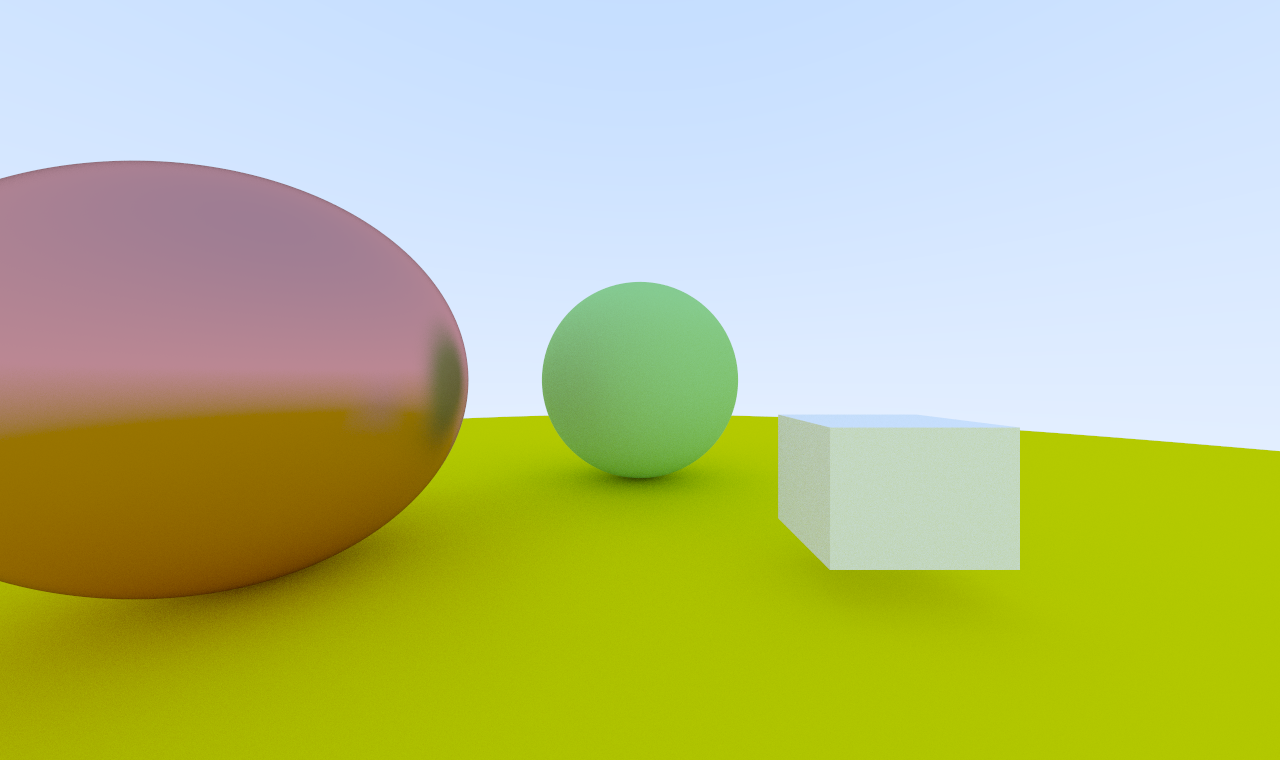
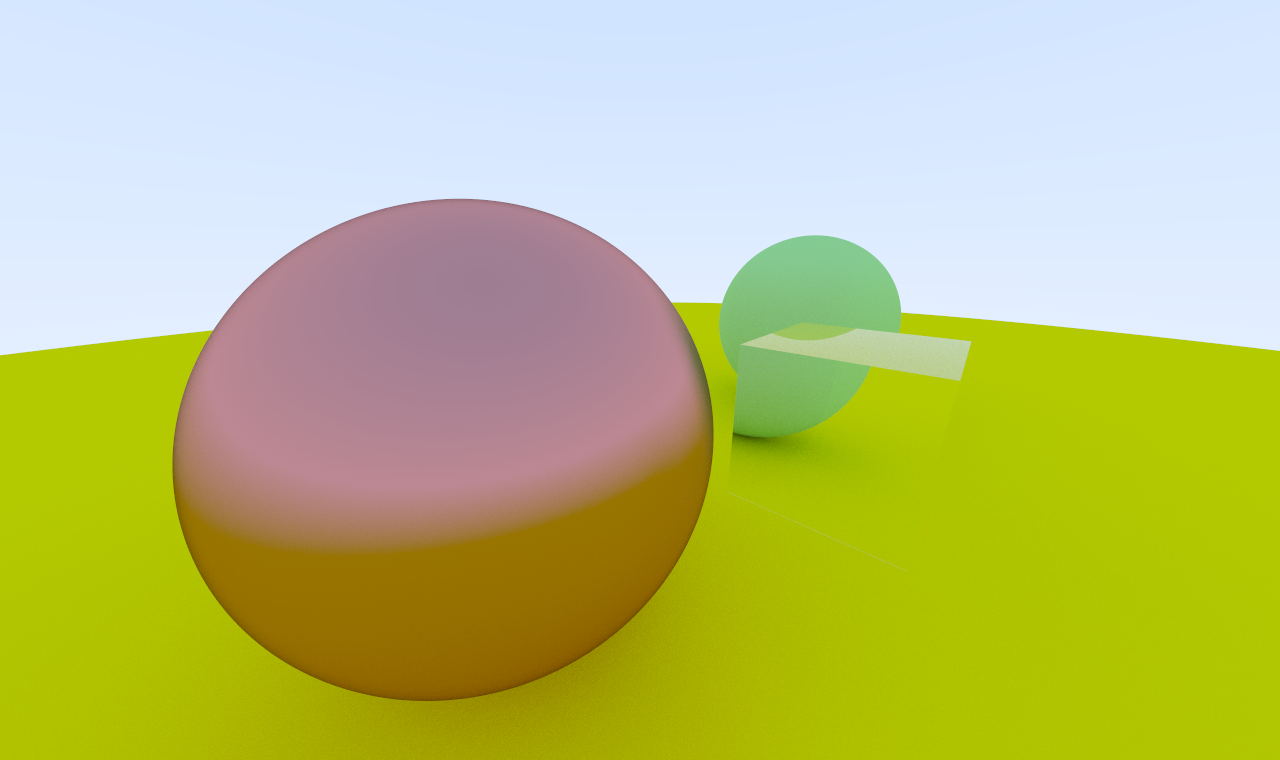
you can now change camera position and direction

diff --git a/src/renderer.rs b/src/renderer.rs
@@ -10,7 +10,7 @@ use lib_rs::{
     color::{self, mix, rgba, Color},
     geometry::Sphere,
     linear_algebra::{
-        vector::{dot, vec3},
+        vector::{cross, dot, vec3},
         Vector3,
     },
     ray::{HitRecord, Hitable, Ray},
@@ -49,11 +49,13 @@ pub fn random_vec3_on_semisphere(rng: &mut rand::rngs::ThreadRng, normal: Vector
     }
 }
 
+const VIEWPORT_HEIGHT_3D: f32 = 2.0;
+
 #[derive(Debug)]
 pub struct Camera {
     aspect_ratio: f32,
-    pub frame_size: (u32, u32),
-    center: Vector3,
+    frame_size: (u32, u32),
+    position: Vector3,
     pixel_delta_u: Vector3,
     pixel_delta_v: Vector3,
     pixel_0_loc: Vector3,
@@ -64,24 +66,50 @@ impl Camera {
     pub fn new(width: u32, height: u32) -> Self {
         let aspect_ratio = width as f32 / height as f32;
         let center = Vector3::ZERO;
+        let view_dir = vec3(0.0, 0.0, -1.0);
+
         // near plane
-        let viewport_size = (2.0 * aspect_ratio, 2.0);
-        let pixel_size = 2.0 / height as f32;
-        let viewport_top_left = center
-            + vec3(0.0, 0.0, -1.0)
-            + vec3(-viewport_size.0 / 2.0, viewport_size.1 / 2.0, 0.0);
-        let pixel_delta_u = vec3(pixel_size, 0.0, 0.0);
-        let pixel_delta_v = vec3(0.0, -pixel_size, 0.0);
-        let pixel_0_loc = viewport_top_left + 0.5 * (pixel_delta_u + pixel_delta_v);
+        let (pixel_0_loc, pixel_delta_u, pixel_delta_v, viewport_size) =
+            Self::calc_near_plane_values(center, view_dir, aspect_ratio, (width, height));
         Self {
             aspect_ratio,
             frame_size: (width, height),
-            center,
+            position: center,
             pixel_0_loc,
             pixel_delta_u,
             pixel_delta_v,
             viewport_size,
         }
+    }
+    fn calc_near_plane_values(
+        center: Vector3,
+        view_dir: Vector3,
+        aspect_ratio: f32,
+        frame_size: (u32, u32),
+    ) -> (Vector3, Vector3, Vector3, (f32, f32)) {
+        let dir = view_dir;
+        let left = cross(vec3(0.0, 1.0, 0.0), dir).normalize();
+        // up direction of the frame in 3d space;
+        let up = cross(dir, left);
+        let viewport_size = (VIEWPORT_HEIGHT_3D * aspect_ratio, VIEWPORT_HEIGHT_3D);
+        let pixel_size = 2.0 / (frame_size.1 as f32);
+        let viewport_top_left = center + dir + viewport_size.0/2.0 * left + viewport_size.1/2.0 * up;
+        let pixel_delta_u = pixel_size * -left;
+        let pixel_delta_v = pixel_size * -up;
+        let pixel_0_loc = viewport_top_left + 0.5 * (pixel_delta_u + pixel_delta_v);
+        (pixel_0_loc, pixel_delta_u, pixel_delta_v, viewport_size)
+    }
+    pub fn move_to(&mut self, pos: Vector3) {
+        self.pixel_0_loc = self.pixel_0_loc + (pos - self.position);
+        self.position = pos;
+    }
+    pub fn look_at(&mut self, target: Vector3) {
+        let dir = (target - self.position).normalize();
+        let (loc_0,delta_u,delta_v,_) = Self::calc_near_plane_values(self.position, dir, self.aspect_ratio, self.frame_size);
+        self.pixel_0_loc = loc_0;
+        self.pixel_delta_u = delta_u;
+        self.pixel_delta_v = delta_v;
+        // left direction of the frame in 3d space;
     }
     pub fn get_ray_at(&self, u: u32, v: u32, rng: &mut rand::rngs::ThreadRng) -> Ray {
         // let dir =
@@ -94,12 +122,15 @@ impl Camera {
         let dir = self.pixel_0_loc
             + (u as f32 + rand_x) * self.pixel_delta_u
             + (v as f32 + rand_y) * self.pixel_delta_v
-            - self.center;
+            - self.position;
 
         Ray {
-            origin: self.center,
+            origin: self.position,
             direction: dir.normalize(),
         }
+    }
+    pub fn frame_size(&self) -> (u32, u32) {
+        self.frame_size
     }
 }
 

diff --git a/src/main.rs b/src/main.rs
@@ -16,17 +16,18 @@ use renderer::{Material, MaterialKind, Renderer, Scene};
 use crate::renderer::Camera;
 mod renderer;
 
-const WIDTH: u32 = 1280;
-const HEIGHT: u32 = 720;
+
 
 fn main() {
     // let bar = indicatif::ProgressBar::new((WIDTH * HEIGHT) as u64);
-    let camera = Camera::new(1280, 760);
+    let mut camera = Camera::new(1280, 760);
+    camera.move_to(vec3(0.8,0.4,0.4));
+    camera.look_at(vec3(0.0,0.0,-0.5));
     // let sphere1 = Sphere::new(vec3(0.0, 0.0, -1.0), 0.5);
     // let sphere1 = Sphere::new(vec3(0.0, -100.5, -1.0), 100.0);
     // let mut geometries = vec![sphere];
     let mut scene = Scene::new();
-
+    // return;
     // glass ball
     // scene.add(
     //     Sphere::new(vec3(-0.3, -0.2, -0.8), 0.2),
@@ -39,7 +40,7 @@ fn main() {
     // );
 
     scene.add(
-        Sphere::new(vec3(-1.0, 0.0, -1.0), 0.5),
+        Sphere::new(vec3(0.0, 0.0, 0.0), 0.5),
         Material {
             kind: MaterialKind::Metal { fuzz: 0.2 },
             color: rgba(0.7, 0.3, 0.3, 1.0),
@@ -56,11 +57,11 @@ fn main() {
 
     scene.add(
         AxisAlignedBox::new(
-            vec3(0.4, -0.4, -1.1),
-            vec3(0.8, -0.1, -0.8),
+            vec3(0.4, -0.2, -0.8),
+            vec3(0.8, 0.2, -0.4),
         ),
         Material {
-            kind: MaterialKind::Lambertian,
+            kind: MaterialKind::Dielectric { fraction_rate: 1.5 },
             color: rgba(1.0, 1.0, 1.0, 1.0),
         },
     );
